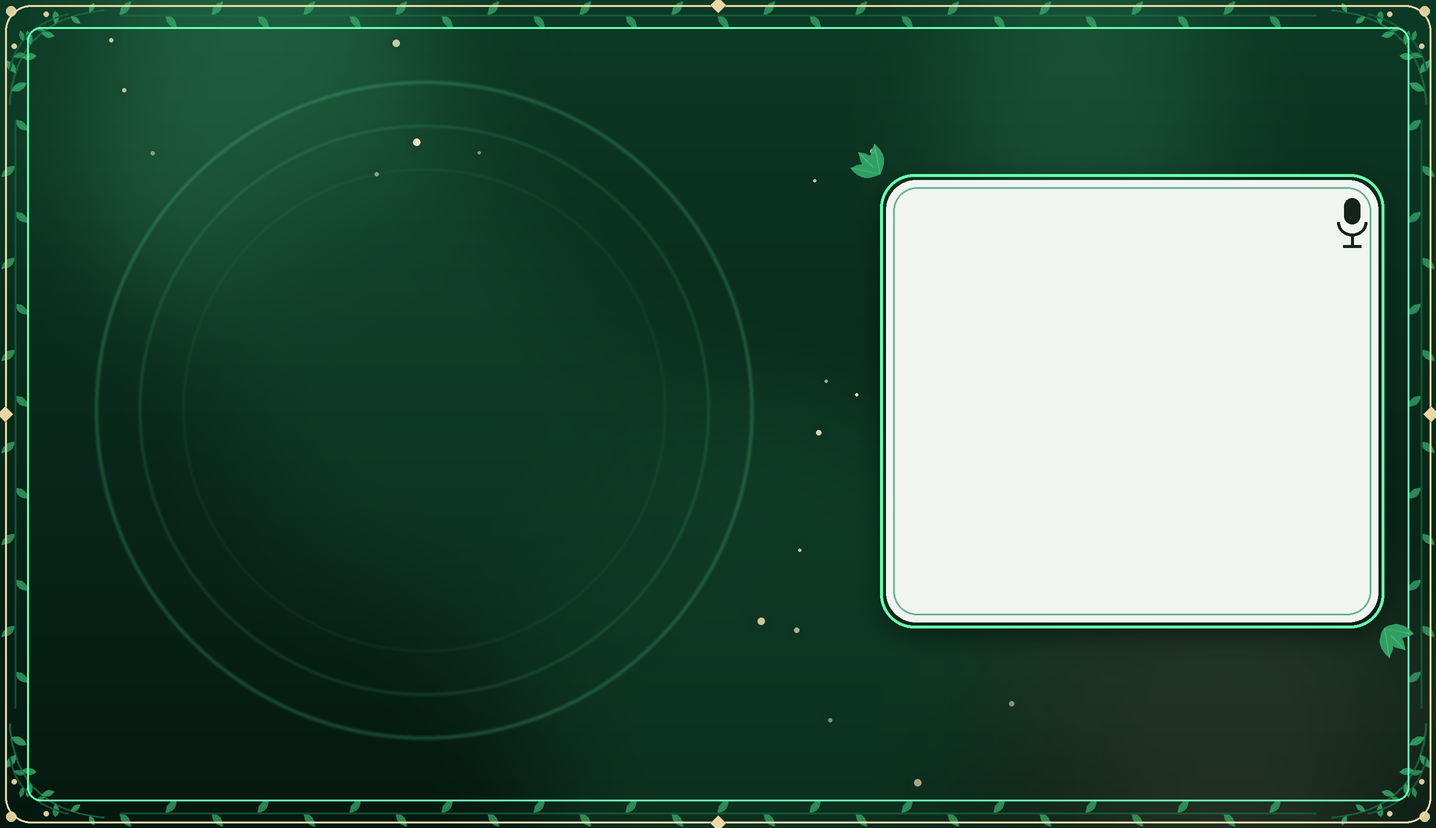
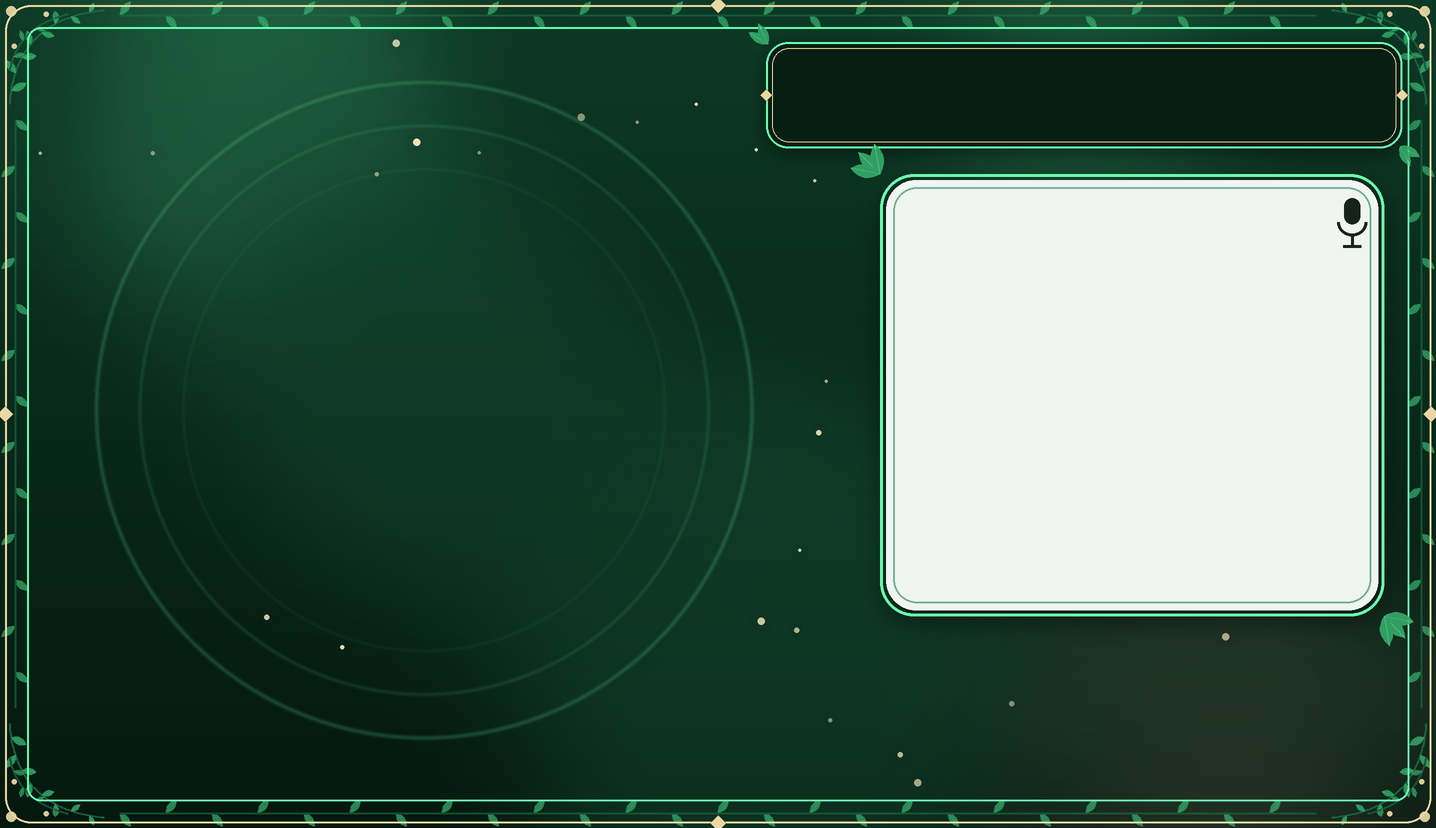
Contact frame, QR text auto-fit, larger intro text, key label fit

Changed region(s): [[0.5209, 0.0302, 0.9805, 0.1812], [0.6128, 0.6944, 0.9805, 0.785], [0.9805, 0.1812, 1.0, 0.2114]]

diff --git a/ui_letan.py b/ui_letan.py
@@ -41,13 +41,20 @@ HINT_BLINK_MIN = 0.12    # độ sáng thấp nhất (0..1): càng nhỏ càng n
 FLOAT_PX = 5           # biên độ chữ "nhấp nhô"
 
 
+class _ScaleK(float):
+    """Hệ số co chữ: k * 14 -> số nguyên px (dùng với chuỗi định dạng %d)."""
+    def __mul__(self, n):
+        return max(8, int(round(float(self) * n)))
+    __rmul__ = __mul__
+
+
 def _html(title, line2, sub):
     """Cả khối tiếng Việt và khối tiếng Anh dùng đúng cùng cỡ chữ."""
     return (
         f'<div style="text-align:center;">'
-        f'<div style="font-size:36px; font-weight:800; color:{GREEN};">{title}</div>'
-        f'<div style="font-size:34px; font-weight:800; color:{WHITE}; margin-top:4px;">{line2}</div>'
-        f'<div style="font-size:18px; font-weight:600; color:{GRAY}; margin-top:10px;">{sub}</div>'
+        f'<div style="font-size:41px; font-weight:800; color:{GREEN};">{title}</div>'
+        f'<div style="font-size:39px; font-weight:800; color:{WHITE}; margin-top:4px;">{line2}</div>'
+        f'<div style="font-size:21px; font-weight:600; color:{GRAY}; margin-top:10px;">{sub}</div>'
         f'</div>'
     )
 
@@ -299,8 +306,8 @@ class Ui_MainWindow(object):
             f"padding:4px 8px; font-family:'{FONT_FAMILY}'; font-size:14px; font-weight:600; }}")
 
         # ---- Khung trái: tiếng Anh (trên) và tiếng Việt (dưới), cỡ chữ bằng nhau ----
-        self.en_block = GlowText(self.centralwidget, QtCore.QRect(62, 188, 665, 172), EN_HTML)
-        self.vn_block = GlowText(self.centralwidget, QtCore.QRect(62, 388, 665, 172), VN_HTML)
+        self.en_block = GlowText(self.centralwidget, QtCore.QRect(48, 178, 693, 188), EN_HTML)
+        self.vn_block = GlowText(self.centralwidget, QtCore.QRect(48, 384, 693, 188), VN_HTML)
         self.divider = QtWidgets.QFrame(self.centralwidget)
         self.divider.setGeometry(150, 372, 490, 2)
         self.divider.setStyleSheet(
@@ -318,28 +325,34 @@ class Ui_MainWindow(object):
             f'<span style="{tag}">&nbsp;NHẤN &amp; GIỮ&nbsp;</span>{HINT_VN[len("NHẤN & GIỮ"):]}</div></div>'))
         self.hint._glow = 0.2
         self.arrow = ArrowDown(self.centralwidget, ARROW_X, 699)
-        self.key_label = QtWidgets.QLabel(
-            f'<div style="color:{GREEN}; font-size:15px; font-weight:800;">{KEY_EN} &nbsp;·&nbsp; {KEY_VN}</div>'
-            f'<div style="color:{GRAY}; font-size:12px; font-weight:600;">{HINT_ZH}</div>'
-            f'<div style="color:{GRAY}; font-size:12px; font-weight:600;">{HINT_ES}</div>', self.centralwidget)
+        def key_html(k):
+            return (f'<div style="color:{GREEN}; font-size:{15 * k}px; font-weight:800;">{KEY_EN} &nbsp;·&nbsp; {KEY_VN}</div>'
+                    f'<div style="color:{GRAY}; font-size:{12 * k}px; font-weight:600;">{HINT_ZH}</div>'
+                    f'<div style="color:{GRAY}; font-size:{12 * k}px; font-weight:600;">{HINT_ES}</div>')
+        self.key_label = QtWidgets.QLabel(self._fit_html(key_html, 440, 54), self.centralwidget)
+        self.key_label.setTextFormat(Qt.TextFormat.RichText)
+        self.key_label.setWordWrap(True)
         self.key_label.setGeometry(ARROW_X + 44, 712, 440, 54)
         self.key_label.setAttribute(Qt.WidgetAttribute.WA_TranslucentBackground)
 
-        # ---- Hai mã QR ở góc phải phía dưới ----
-        self.qr_host_tile, self.qr_host_text = self._make_qr(
-            770, "qr_host.png",
-            '<div style="color:%s; font-size:14px; font-weight:800;">Scan the website to talk directly with the host</div>'
-            '<div style="color:%s; font-size:12px; font-weight:600;">(choose <b>Quick chat</b> in the left corner of the website)</div>'
-            '<div style="color:%s; font-size:13px; font-weight:700; margin-top:5px;">Quét mã web để nói chuyện trực tiếp với host</div>'
-            '<div style="color:%s; font-size:12px; font-weight:600;">(chọn <b>Chat nhanh</b> ở góc trái website)</div>'
-            % (GREEN, GRAY, WHITE, GRAY), 176)
-        self.qr_bank_tile, self.qr_bank_text = self._make_qr(
-            1092, "qr_bank.png",
-            '<div style="color:%s; font-size:14px; font-weight:800;">QR for money transfer</div>'
-            '<div style="color:%s; font-size:13px; font-weight:700;">MÃ QR chuyển tiền</div>'
-            '<div style="color:%s; font-size:14px; font-weight:800; margin-top:5px;">TPBank</div>'
-            '<div style="color:%s; font-size:14px; font-weight:800;">1000 1689 000</div>'
-            '<div style="color:%s; font-size:12px; font-weight:600;">BIET THU DU LICH VUON CO TICH</div>' % (GREEN, WHITE, WHITE, WHITE, GRAY), 138)
+        # ---- Hai mã QR ở góc phải phía dưới (chữ tự co cho vừa khung theo phông thật của máy) ----
+        def host_html(k):
+            return ('<div style="color:%s; font-size:%dpx; font-weight:800;">Scan the website to talk directly with the host</div>'
+                    '<div style="color:%s; font-size:%dpx; font-weight:600;">(choose <b>Quick chat</b> in the left corner of the website)</div>'
+                    '<div style="color:%s; font-size:%dpx; font-weight:700; margin-top:5px;">Quét mã web để nói chuyện trực tiếp với host</div>'
+                    '<div style="color:%s; font-size:%dpx; font-weight:600;">(chọn <b>Chat nhanh</b> ở góc trái website)</div>'
+                    % (GREEN, 14 * k, GRAY, 12 * k, WHITE, 13 * k, GRAY, 12 * k))
+
+        def bank_html(k):
+            return ('<div style="color:%s; font-size:%dpx; font-weight:800;">QR for money transfer</div>'
+                    '<div style="color:%s; font-size:%dpx; font-weight:700;">MÃ QR chuyển tiền</div>'
+                    '<div style="color:%s; font-size:%dpx; font-weight:800; margin-top:5px;">TPBank</div>'
+                    '<div style="color:%s; font-size:%dpx; font-weight:800;">1000 1689 000</div>'
+                    '<div style="color:%s; font-size:%dpx; font-weight:600;">BIET THU DU LICH VUON CO TICH</div>'
+                    % (GREEN, 14 * k, WHITE, 13 * k, WHITE, 14 * k, WHITE, 14 * k, GRAY, 12 * k))
+
+        self.qr_host_tile, self.qr_host_text = self._make_qr(770, "qr_host.png", host_html, 196)
+        self.qr_bank_tile, self.qr_bank_text = self._make_qr(1094, "qr_bank.png", bank_html, 156)
 
         # Bọc giao diện 1376x768 trong một khung nhìn để tự co giãn theo cửa sổ (giữ đúng tỉ lệ)
         self.view = FitView(MainWindow)
@@ -370,17 +383,35 @@ class Ui_MainWindow(object):
         self.switch_type_language()
         self._start_animations()
 
-    def _make_qr(self, x, image, html, text_w=132):
+    QR_Y, QR_H, QR_TILE = 592, 176, 112          # vùng QR: từ y=592 đến 768
+
+    def _fit_html(self, html_fn, width, height):
+        """Chọn cỡ chữ lớn nhất (tối đa 100%) để toàn bộ chữ nằm vừa khung width x height với phông đang dùng."""
+        family = FONT_FAMILY if FONT_FAMILY in QtGui.QFontDatabase.families() else QtGui.QFont().family()
+        for pct in range(100, 49, -5):
+            k = pct / 100.0
+            doc = QtGui.QTextDocument()
+            doc.setDefaultFont(QtGui.QFont(family))
+            doc.setDocumentMargin(0)
+            doc.setHtml(html_fn(_ScaleK(k)))
+            doc.setTextWidth(width)
+            if doc.size().height() <= height:
+                break
+        return html_fn(_ScaleK(k))
+
+    def _make_qr(self, x, image, html_fn, text_w=160):
         """Ô trắng chứa mã QR (vùng yên tĩnh trắng giúp quét dễ) + chú thích bên phải."""
+        t = self.QR_TILE
         tile = QtWidgets.QLabel(self.centralwidget)
-        tile.setGeometry(x, 612, 132, 132)
+        tile.setGeometry(x, self.QR_Y + (self.QR_H - t) // 2, t, t)
         tile.setStyleSheet("background:#FFFFFF; border-radius:10px;")
         tile.setAlignment(ALIGN_CENTER)
         pm = QtGui.QPixmap(os.path.join(BASE, image))
-        tile.setPixmap(pm.scaled(120, 120, Qt.AspectRatioMode.KeepAspectRatio,
+        tile.setPixmap(pm.scaled(t - 10, t - 10, Qt.AspectRatioMode.KeepAspectRatio,
                                  Qt.TransformationMode.SmoothTransformation))
-        text = QtWidgets.QLabel(html, self.centralwidget)
-        text.setGeometry(x + 138, 603, text_w, 154)
+        text = QtWidgets.QLabel(self._fit_html(html_fn, text_w, self.QR_H - 4), self.centralwidget)
+        text.setTextFormat(Qt.TextFormat.RichText)
+        text.setGeometry(x + t + 8, self.QR_Y, text_w, self.QR_H)
         text.setWordWrap(True)
         text.setAlignment(Qt.AlignmentFlag.AlignVCenter | Qt.AlignmentFlag.AlignLeft)
         text.setAttribute(Qt.WidgetAttribute.WA_TranslucentBackground)

diff --git a/gen_assets.py b/gen_assets.py
@@ -91,7 +91,7 @@ def background():
     sd = ImageDraw.Draw(sp)
     for _ in range(70):
         x, y = rnd.uniform(40, SW - 40), rnd.uniform(40, SH - 40)
-        if 856 + M - 20 < x < 1348 + M + 20 and 150 + M - 20 < y < 592 + M + 20:
+        if 856 + M - 20 < x < 1348 + M + 20 and 150 + M - 20 < y < 580 + M + 20:
             continue                                   # không đặt trong ô trắng
         if (40 + M < x < 760 + M and 170 + M < y < 580 + M) or (740 + M < x < 1370 + M and 10 + M < y < 120 + M) \
                 or (30 + M < x < 760 + M and 620 + M < y < 750 + M):
@@ -150,7 +150,7 @@ def background():
         d.polygon([(x, y - r), (x + r, y), (x, y + r), (x - r, y)], fill=GOLD + (255,), outline=(120, 90, 30, 255))
 
     # ô trắng hiển thị: bóng + thẻ + viền kép + micro
-    px0, py0, px1, py1 = (856 + M) * S, (150 + M) * S, (1348 + M) * S, (592 + M) * S
+    px0, py0, px1, py1 = (856 + M) * S, (150 + M) * S, (1348 + M) * S, (580 + M) * S
     sh = Image.new("RGBA", (w, h), (0, 0, 0, 0))
     ImageDraw.Draw(sh).rounded_rectangle((px0, py0 + 8 * S, px1, py1 + 8 * S), 30 * S, fill=(0, 0, 0, 150))
     img = Image.alpha_composite(img, sh.filter(ImageFilter.GaussianBlur(14 * S)))
@@ -164,6 +164,23 @@ def background():
     d.arc((mx - 15 * S, my - 6 * S, mx + 15 * S, my + 22 * S), 0, 180, fill=ink, width=3 * S)
     d.line((mx, my + 22 * S, mx, my + 32 * S), fill=ink, width=3 * S)
     d.line((mx - 9 * S, my + 32 * S, mx + 9 * S, my + 32 * S), fill=ink, width=3 * S)
+
+    # khung bao quanh khối website + số điện thoại (phía trên bên phải)
+    bx0, by0, bx1, by1 = (736 + M) * S, (12 + M) * S, (1372 + M) * S, (118 + M) * S
+    bl = Image.new("RGBA", (w, h), (0, 0, 0, 0))
+    ImageDraw.Draw(bl).rounded_rectangle((bx0, by0 + 5 * S, bx1, by1 + 5 * S), 22 * S, fill=(0, 0, 0, 120))
+    img = Image.alpha_composite(img, bl.filter(ImageFilter.GaussianBlur(9 * S)))
+    d = ImageDraw.Draw(img, "RGBA")
+    d.rounded_rectangle((bx0, by0, bx1, by1), 22 * S, fill=(6, 30, 20, 150), outline=MINT + (210,), width=2 * S)
+    d.rounded_rectangle((bx0 + 6 * S, by0 + 6 * S, bx1 - 6 * S, by1 - 6 * S), 17 * S, outline=GOLD + (120,), width=1 * S)
+    for x, y in ((bx0, (by0 + by1) / 2), (bx1, (by0 + by1) / 2)):                 # kim cương hai bên khung
+        r = 6 * S
+        d.polygon([(x, y - r), (x + r, y), (x, y + r), (x - r, y)], fill=GOLD + (255,), outline=(120, 90, 30, 255))
+    lv0 = Image.new("RGBA", (w, h), (0, 0, 0, 0))
+    ld0 = ImageDraw.Draw(lv0)
+    for (x, y, a) in ((bx0 + 2 * S, by0 + 2 * S, -2.6), (bx0 + 2 * S, by0 + 2 * S, -2.0), (bx1 - 2 * S, by1 - 2 * S, 0.5), (bx1 - 2 * S, by1 - 2 * S, 1.1)):
+        _leaf(ld0, x, y, 22 * S, 9 * S, a, LEAF + (230,), MINT + (150,))
+    img = Image.alpha_composite(img, lv0)
 
     # lá nhỏ ôm hai góc của ô trắng
     lv = Image.new("RGBA", (w, h), (0, 0, 0, 0))
